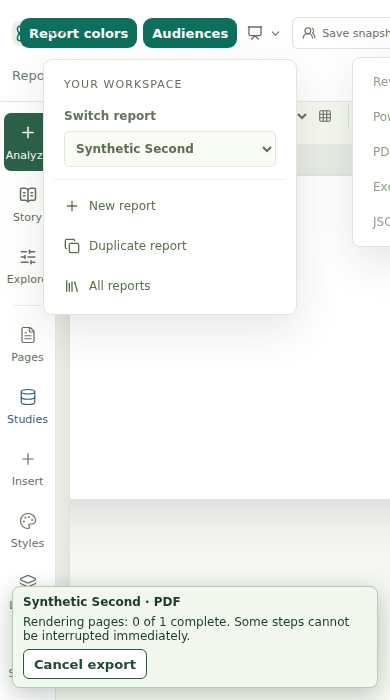
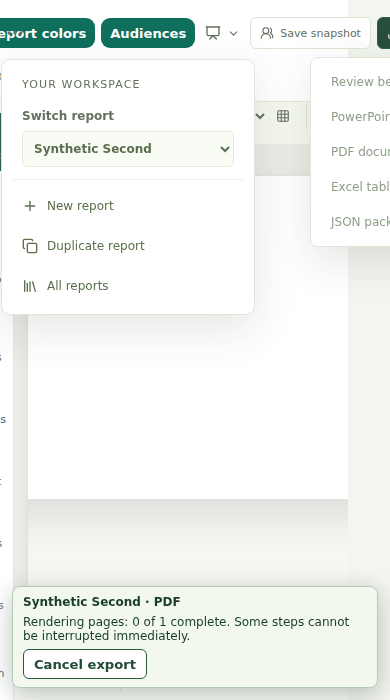
Keep export cancellation visible across navigation

diff --git a/src/features/export/useExportJob.ts b/src/features/export/useExportJob.ts
@@ -1,4 +1,4 @@
-import { useEffect, useRef, useState } from 'react';
+import { useEffect, useRef, useState, useSyncExternalStore } from 'react';
 import { buildExportPackageConfirmationView } from '../builder/builderPublishModel';
 import { downloadDashboardExportSpec } from '../builder/builderExportPackage';
 import { checkExport, exportProgress, type ExportStage } from './exportControl';
@@ -6,25 +6,33 @@ import type { CoreExportTarget } from './coreDocumentExports';
 import type { DashboardDraft, DashboardPage } from '../../../shared/types/dashboard';
 
 export type ExportJobView = { target: CoreExportTarget; reportTitle: string; phase: 'running' | 'canceling' | 'complete' | 'canceled' | 'error'; progress: ExportStage; message?: string };
+type ActiveJob = { controller: AbortController; scope: string };
+let activeJob: ActiveJob | null = null;
+let activeView: ExportJobView | null = null;
+const listeners = new Set<() => void>();
+function publishActive(view: ExportJobView | null) { activeView = view; listeners.forEach(listener => listener()); }
+function subscribe(listener: () => void) { listeners.add(listener); return () => listeners.delete(listener); }
+function cancelActive() { if (!activeJob) return; activeJob.controller.abort(); if (activeView?.phase === 'running') publishActive({ ...activeView, phase: 'canceling' }); }
 export function useExportJob(dashboard: DashboardDraft, pages: DashboardPage[], scope: { reportId: string; viewer: boolean; isCurrent: () => boolean }) {
   const owner = useRef<{ controller: AbortController; scope: string } | null>(null), mounted = useRef(true);
   const [view, setView] = useState<ExportJobView | null>(null);
+  const sharedView = useSyncExternalStore(subscribe, () => activeView, () => null);
   const viewScope = useRef('');
   const scopeKey = JSON.stringify([scope.reportId, scope.viewer]);
   const latest = useRef(scopeKey); latest.current = scopeKey;
-  useEffect(() => { mounted.current = true; return () => { mounted.current = false; owner.current?.controller.abort(); }; }, []);
-  useEffect(() => { if (owner.current && owner.current.scope !== scopeKey) owner.current.controller.abort(); setView(null); }, [scopeKey]);
-  function cancel() { const job = owner.current; if (!job) return; job.controller.abort(); if (mounted.current) setView(current => current?.phase === 'running' ? { ...current, phase: 'canceling' } : current); }
+  useEffect(() => { mounted.current = true; return () => { mounted.current = false; if (owner.current === activeJob) cancelActive(); }; }, []);
+  useEffect(() => { if (owner.current && owner.current.scope !== scopeKey) { cancelActive(); setView(current => current?.phase === 'running' ? { ...current, phase: 'canceling' } : current); } else if (!owner.current) setView(null); }, [scopeKey]);
+  function cancel() { cancelActive(); if (mounted.current) setView(current => current?.phase === 'running' ? { ...current, phase: 'canceling' } : current); }
   async function start(target: CoreExportTarget) {
-    if (owner.current) return;
-    const controller = new AbortController(), job = { controller, scope: scopeKey }; owner.current = job;
+    if (activeJob) return;
+    const controller = new AbortController(), job = { controller, scope: scopeKey }; owner.current = job; activeJob = job;
     let snapshot: { dashboard: DashboardDraft; pages: DashboardPage[] };
     try { snapshot = structuredClone({ dashboard, pages }); }
-    catch (error) { owner.current = null; viewScope.current = scopeKey; if (mounted.current) setView({ target, reportTitle: dashboard.title, phase: 'error', progress: { stage:'preparing' }, message: error instanceof Error ? error.message : 'The report snapshot could not be captured.' }); return; }
+    catch (error) { owner.current = null; if (activeJob === job) activeJob = null; viewScope.current = scopeKey; if (mounted.current) setView({ target, reportTitle: dashboard.title, phase: 'error', progress: { stage:'preparing' }, message: error instanceof Error ? error.message : 'The report snapshot could not be captured.' }); return; }
     viewScope.current = scopeKey;
-    const initial: ExportJobView = { target, reportTitle: snapshot.dashboard.title, phase: 'running', progress: { stage:'preparing' } }; setView(initial);
+    const initial: ExportJobView = { target, reportTitle: snapshot.dashboard.title, phase: 'running', progress: { stage:'preparing' } }; setView(initial); publishActive(initial);
     const current = () => { if (owner.current !== job || latest.current !== job.scope || !scope.isCurrent()) throw new DOMException('Export context changed.', 'AbortError'); };
-    const control = { signal: controller.signal, assertCurrent: current, onProgress: (progress: ExportStage) => { if (mounted.current && owner.current === job) setView(currentView => currentView?.phase === 'running' ? { ...currentView, progress } : currentView); } };
+    const control = { signal: controller.signal, assertCurrent: current, onProgress: (progress: ExportStage) => { if (activeJob === job && activeView?.phase === 'running') publishActive({ ...activeView, progress }); if (mounted.current && owner.current === job) setView(currentView => currentView?.phase === 'running' ? { ...currentView, progress } : currentView); } };
     try {
       const confirmation = buildExportPackageConfirmationView(snapshot.dashboard, undefined, target);
       await new Promise<void>(resolve => setTimeout(resolve, 0)); checkExport(control);
@@ -33,7 +41,8 @@ export function useExportJob(dashboard: DashboardDraft, pages: DashboardPage[], 
       checkExport(control); if (mounted.current && owner.current === job) setView({ ...initial, phase:'complete', progress:{stage:'download'}, message:`${confirmation.label.replace('downloaded', 'download initiated')}. ${confirmation.helper} Check your browser downloads.` });
     } catch (error) {
       if (mounted.current && owner.current === job && latest.current === job.scope) setView({ ...initial, phase: controller.signal.aborted || error instanceof DOMException && error.name === 'AbortError' ? 'canceled' : 'error', message: error instanceof Error ? error.message : 'Export failed.' });
-    } finally { if (owner.current === job) owner.current = null; }
+    } finally { if (owner.current === job) { owner.current = null; if (activeJob === job) { activeJob = null; publishActive(null); } if (mounted.current && latest.current !== job.scope) setView(null); } }
   }
-  return { view: viewScope.current === scopeKey ? view : null, start, cancel, invalidate: cancel };
+  const visibleView = viewScope.current === scopeKey ? view : view && owner.current && (view.phase === 'running' || view.phase === 'canceling') ? { ...view, phase: 'canceling' as const } : null;
+  return { view: sharedView ?? visibleView, start, cancel, invalidate: cancel };
 }

diff --git a/src/features/export/__tests__/exportJobLifecycle.test.tsx b/src/features/export/__tests__/exportJobLifecycle.test.tsx
@@ -13,7 +13,8 @@ function Harness({draft,reportId=draft.id,viewer=false}:{draft:DashboardDraft;re
 function button(label:string){return [...host.querySelectorAll('button')].find(b=>b.textContent===label)!;}
 async function start(label:string){await act(async()=>{button(label).click();await new Promise(r=>setTimeout(r,20));});}
 it('locks both launch paths, captures edits and labels from the original snapshot, and permits a later job',async()=>{const draft=structuredClone(initialDashboard),oldTitle=draft.title,oldPage=draft.pages[0].title;await act(async()=>root.render(<Harness draft={draft}/>));await act(async()=>{button('Header export').click();button('Library export').click();await new Promise(r=>setTimeout(r,20));});expect(sent.calls).toHaveLength(1);draft.title='Later title';draft.pages[0].title='Later page';await act(async()=>root.render(<Harness draft={draft}/>));expect(sent.calls[0]).toMatchObject({title:oldTitle,pageTitle:oldPage});await act(async()=>finish!());expect(sent.downloads).toBe(1);expect(host.querySelector('output')?.textContent).toContain(oldTitle);expect(host.querySelector('output')?.textContent).toContain('download initiated');await start('Library export');expect(sent.calls).toHaveLength(2);await act(async()=>finish!());expect(sent.downloads).toBe(2);});
-it('suppresses canceled and navigated jobs and allows a retry',async()=>{const draft=structuredClone(initialDashboard);await act(async()=>root.render(<Harness draft={draft}/>));await start('Header export');await act(async()=>button('Cancel').click());expect(host.querySelector('output')?.textContent).toContain('canceling');await act(async()=>finish!());expect(sent.downloads).toBe(0);expect(host.querySelector('output')?.textContent).toContain('canceled');await start('Library export');await act(async()=>root.render(<Harness draft={draft} reportId="other"/>));await act(async()=>finish!());expect(sent.downloads).toBe(0);expect(host.querySelector('output')?.textContent).not.toContain('complete');await start('Header export');await act(async()=>finish!());expect(sent.downloads).toBe(1);});
+it('suppresses canceled and navigated jobs and allows a retry',async()=>{const draft=structuredClone(initialDashboard);await act(async()=>root.render(<Harness draft={draft}/>));await start('Header export');await act(async()=>button('Cancel').click());expect(host.querySelector('output')?.textContent).toContain('canceling');await act(async()=>finish!());expect(sent.downloads).toBe(0);expect(host.querySelector('output')?.textContent).toContain('canceled');await start('Library export');await act(async()=>root.render(<Harness draft={draft} reportId="other"/>));expect(host.querySelector('output')?.textContent).toContain('canceling');await start('Header export');expect(sent.calls).toHaveLength(2);await act(async()=>finish!());expect(host.querySelector('output')?.textContent).not.toContain('canceling');expect(sent.downloads).toBe(0);expect(host.querySelector('output')?.textContent).not.toContain('complete');await start('Header export');await act(async()=>finish!());expect(sent.downloads).toBe(1);});
 it('suppresses late completion after unmount',async()=>{const draft=structuredClone(initialDashboard);await act(async()=>root.render(<Harness draft={draft}/>));await start('Header export');await act(async()=>root.render(null));await act(async()=>finish!());expect(sent.downloads).toBe(0);});
 
 it('shows a failure and permits an explicit successful retry',async()=>{const draft=structuredClone(initialDashboard);await act(async()=>root.render(<Harness draft={draft}/>));failNext=true;await start('Header export');await act(async()=>finish!());expect(host.querySelector('output')?.textContent).toContain('Synthetic export failure');expect(sent.downloads).toBe(0);await start('Library export');await act(async()=>finish!());expect(sent.downloads).toBe(1);});
+it('keeps the lock visible across an editor remount until the canceled job settles',async()=>{const draft=structuredClone(initialDashboard);await act(async()=>root.render(<Harness draft={draft}/>));await start('Header export');await act(async()=>root.render(null));await act(async()=>root.render(<Harness draft={draft} viewer/>));expect(host.querySelector('output')?.textContent).toContain('canceling');await start('Library export');expect(sent.calls).toHaveLength(1);await act(async()=>finish!());expect(sent.downloads).toBe(0);await start('Library export');expect(sent.calls).toHaveLength(2);await act(async()=>finish!());expect(sent.downloads).toBe(1);});

diff --git a/src/features/builder/components/BuilderChrome.tsx b/src/features/builder/components/BuilderChrome.tsx
@@ -178,6 +178,18 @@ function ChromeIcon({ icon }: { icon: ChromeIconName }) {
   return <Icon className="chrome-icon" aria-hidden="true" strokeWidth={1.9} />;
 }
 
+export function ExportJobStatus({ exportJob, onCancelExport }: { exportJob: ExportJobView; onCancelExport?: () => void }) {
+  return <div className="export-job-status" role={exportJob.phase === "error" ? "alert" : "status"}>
+          <strong>{exportJob.reportTitle} · {exportJob.target.toUpperCase()}</strong>{' '}
+          {exportJob.phase === 'running' && <span>{exportJob.progress.stage === 'rendering' ? `Rendering pages: ${exportJob.progress.completed ?? 0} of ${exportJob.progress.total ?? 0} complete` : exportJob.progress.stage === 'packaging' ? 'Packaging file' : exportJob.progress.stage === 'download' ? 'Starting download' : 'Preparing export'}. Some steps cannot be interrupted immediately.</span>}
+          {exportJob.phase === 'canceling' && <span>Cancel requested. Waiting for the current step to finish.</span>}
+          {exportJob.phase === 'complete' && <span>{exportJob.message}</span>}
+          {exportJob.phase === 'canceled' && <span>Export canceled. No download was initiated.</span>}
+          {exportJob.phase === 'error' && <span>Export failed: {exportJob.message}</span>}
+          {exportJob.phase === 'running' && <button type="button" onClick={onCancelExport}>Cancel export</button>}
+        </div>;
+}
+
 export const BuilderHeader = memo(function BuilderHeader({
   dashboard,
   activeProductMode,
@@ -377,15 +389,7 @@ export const BuilderHeader = memo(function BuilderHeader({
         )}
         {exportJob === undefined && exporting && <span role="status" className="export-progress">Preparing {exporting.toUpperCase()}…</span>}
         {exportJob === undefined && exportError && <div role="alert" className="export-error">Export failed: {exportError}</div>}
-        {exportJob && <div className="export-job-status" role={exportJob.phase === "error" ? "alert" : "status"}>
-          <strong>{exportJob.reportTitle} · {exportJob.target.toUpperCase()}</strong>{' '}
-          {exportJob.phase === 'running' && <span>{exportJob.progress.stage === 'rendering' ? `Rendering pages: ${exportJob.progress.completed ?? 0} of ${exportJob.progress.total ?? 0} complete` : exportJob.progress.stage === 'packaging' ? 'Packaging file' : exportJob.progress.stage === 'download' ? 'Starting download' : 'Preparing export'}. Some steps cannot be interrupted immediately.</span>}
-          {exportJob.phase === 'canceling' && <span>Cancel requested. Waiting for the current step to finish.</span>}
-          {exportJob.phase === 'complete' && <span>{exportJob.message}</span>}
-          {exportJob.phase === 'canceled' && <span>Export canceled. No download was initiated.</span>}
-          {exportJob.phase === 'error' && <span>Export failed: {exportJob.message}</span>}
-          {exportJob.phase === 'running' && <button type="button" onClick={onCancelExport}>Cancel export</button>}
-        </div>}
+        {exportJob && <ExportJobStatus exportJob={exportJob} onCancelExport={onCancelExport} />}
         <details className="studio-preview-menu">
           <summary>
             <Presentation size={16} />

diff --git a/src/features/builder/BuilderApp.tsx b/src/features/builder/BuilderApp.tsx
@@ -59,6 +59,7 @@ import { useExportJob } from "../export/useExportJob";
 import type { CoreExportTarget } from "../export/coreDocumentExports";
 import {
   BuilderHeader,
+  ExportJobStatus,
   BuilderPanel,
   WorkspaceModeStrip,
   outcomeModeView,
@@ -1641,6 +1642,7 @@ export default function BuilderApp() {
       "";
     return (
       <main className="published-shell">
+        {exportJob.view && <ExportJobStatus exportJob={exportJob.view} onCancelExport={exportJob.cancel} />}
         <header className="published-header">
           <div className="published-header__copy">
             <span className="published-kicker">

diff --git a/docs/validation/export-jobs/README.md b/docs/validation/export-jobs/README.md
@@ -16,3 +16,7 @@ npm run build
 Chromium uses synthetic reports and study data, blocks non-local requests and delays browser image loading to exercise cancellation during rasterization. It tests a header export followed by a duplicate Tool Library launch, cancellation without download, JSON retry, editing during PowerPoint export, report and viewer navigation, keyboard cancellation, narrow width and native 200% zoom. The PowerPoint filename and completion label retain the captured report title; component tests verify captured page and report data. Unit checks compare representative PDF and PPTX bytes with and without export controls. This is not a screen-reader test, Office visual inspection, a live service test or proof that a user saved a file. Browser error/retry and all format/entry combinations were not individually exercised; error/retry and format builders have automated coverage.
 
 Verified against main `bd3b6b6dd352926f8ceafd8dd811104b0ed3f918`: focused tests passed (60 tests in 6 files); full suite passed (426 files, 5,749 tests; 2 files and 4 tests skipped) using the existing offline Snowflake configuration; typecheck and production build passed. Chromium 156.0.8078.4 passed the scenarios recorded in `results.json`. The build reported the existing large-chunk warning. Normal tests do not verify a live Snowflake service.
+
+Follow-up: the active-job lock and canceling status persist across report and viewer remounts until the delayed step settles. The Chromium runner checks the visible status, disabled export controls, no stale downloads and successful retry after each transition. The synthetic raster delay is eight seconds. Focused follow-up: 61 tests passed across 6 files; typecheck and build passed.
+
+Follow-up full suite: 426 files and 5,750 tests passed; 2 files and 4 tests skipped, using the existing offline Snowflake configuration. Live Snowflake and screen-reader behavior were not tested.
